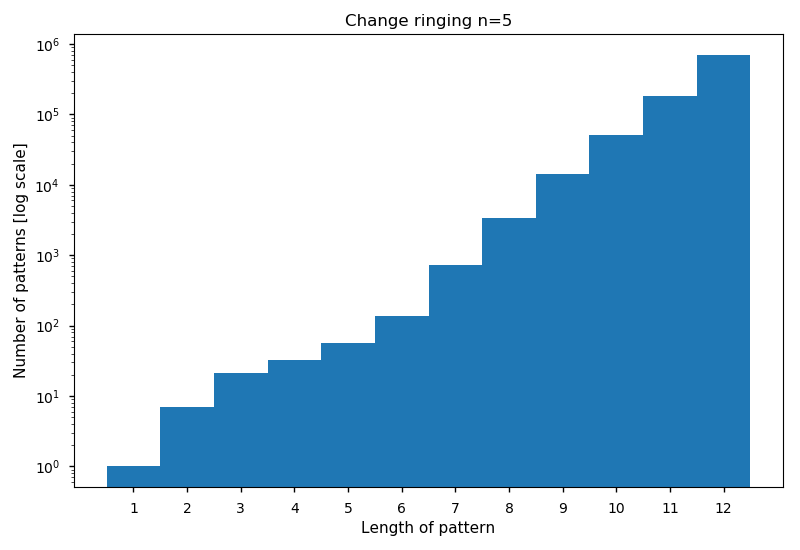
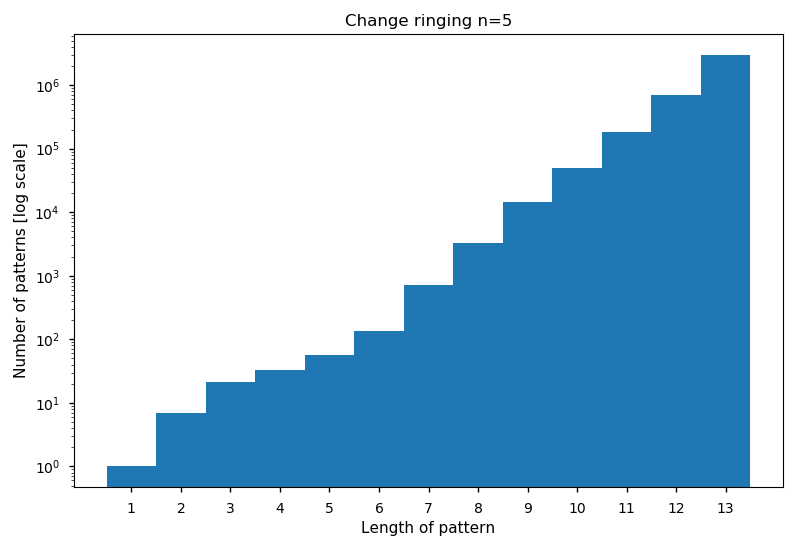
div

diff --git a/change4.html b/change4.html
@@ -22,159 +22,39 @@
 
 <h3>Change ringing patterns for n=4 bells</h3>
 
-<!-- <p> -->
-<!-- &nbsp; -->
-<!-- &nbsp; -->
-<!-- &nbsp; -->
-<!-- &nbsp; -->
-<!-- &nbsp; -->
-<!-- &nbsp; -->
-<!-- &nbsp; -->
-<!-- &nbsp; -->
-<!-- &nbsp;(nr of patterns) -->
-<!-- </p> -->
-
-
-<!-- <p> -->
-<!-- <a href="change4_1.html">Length 1</a> &nbsp; (1)</br> -->
-<!-- <a href="change4_2.html">Length 2</a> &nbsp; (4)</br> -->
-<!-- <a href="change4_3.html">Length 3</a> &nbsp; (6)</br> -->
-<!-- <a href="change4_4.html">Length 4</a> &nbsp; (5)</br> -->
-<!-- <a href="change4_5.html">Length 5</a> &nbsp; (0)</br> -->
-<!-- <a href="change4_6.html">Length 6</a> &nbsp; (0)</br> -->
-<!-- <a href="change4_7.html">Length 7</a> &nbsp; (5)</br> -->
-<!-- <a href="change4_8.html">Length 8</a> &nbsp; (32)</br> -->
-<!-- <a href="change4_9.html">Length 9</a> &nbsp; (93)</br> -->
-<!-- <a href="change4_10.html">Length 10</a>      (167)</br> -->
-<!-- <a href="change4_11.html">Length 11</a>      (257)</br> -->
-<!-- <a href="change4_12.html">Length 12</a>      (377)</br> -->
-<!-- <a href="change4_13.html">Length 13</a>      (589)</br> -->
-<!-- <a href="change4_14.html">Length 14</a>      (1031)</br> -->
-<!-- <a href="change4_15.html">Length 15</a>      (1705)</br> -->
-<!-- <a href="change4_16.html">Length 16</a>      (2429)</br> -->
-<!-- <a href="change4_17.html">Length 17</a>      (3089)</br> -->
-<!-- <a href="change4_18.html">Length 18</a>      (3827)</br> -->
-<!-- <a href="change4_19.html">Length 19</a>      (4474)</br> -->
-<!-- <a href="change4_20.html">Length 20</a>      (4299)</br> -->
-<!-- <a href="change4_21.html">Length 21</a>      (3076)</br> -->
-<!-- <a href="change4_22.html">Length 22</a>      (1535)</br> -->
-<!-- <a href="change4_23.html">Length 23</a>      </br> -->
-<!-- <a href="change4full.html">Length 24 (Full)</a> </br> -->
-<!-- Length 23 (?)</br> -->
-<!-- Length 24 (10792) -->
-<! -- </p> -->
-
-
 <table style="width:200px">
-<tr>
-    <td><em>Length of pattern</em></td>
-    <td><em>Nr of patterns</em></td>
-</tr>
-<tr>
-    <td>&nbsp;</td>
-    <td>&nbsp;</td>
-</tr>
-
-<tr>
-    <td><a href="change4_1.html">1</a></td>
-    <td>1</td>
-</tr>
-<tr>
-    <td><a href="change4_2.html">2</a></td>
-    <td>4</td>
-</tr>
-<tr>
-    <td><a href="change4_3.html">3</a></td>
-    <td>6</td>
-</tr>
-<tr>
-    <td><a href="change4_4.html">4</a></td>
-    <td>5</td>
-</tr>
-<tr>
-    <td><a href="change4_5.html">5</a></td>
-    <td>0</td>
-</tr>
-<tr>
-    <td><a href="change4_6.html">6</a></td>
-    <td>0</td>
-</tr>
-<tr>
-    <td><a href="change4_7.html">7</a></td>
-    <td>5</td>
-</tr>
-<tr>
-    <td><a href="change4_8.html">8</a></td>
-    <td>32</td>
-</tr>
-<tr>
-    <td><a href="change4_9.html">9</a></td>
-    <td>93</td>
-</tr>
-<tr>
-    <td><a href="change4_10.html">10</a></td>
-    <td>167</td>
-</tr>
-<tr>
-    <td><a href="change4_11.html">11</a></td>
-    <td>257</td>
-</tr>
-<tr>
-    <td><a href="change4_12.html">12</a></td>
-    <td>377</td>
-</tr>
-<tr>
-    <td><a href="change4_13.html">13</a></td>
-    <td>589</td>
-</tr>
-<tr>
-    <td><a href="change4_14.html">14</a></td>
-    <td>1031</td>
-</tr>
-<tr>
-    <td><a href="change4_15.html">15</a></td>
-    <td>1705</td>
-</tr>
-<tr>
-    <td><a href="change4_16.html">16</a></td>
-    <td>2429</td>
-</tr>
-<tr>
-    <td><a href="change4_17.html">17</a></td>
-    <td>3089</td>
-</tr>
-<tr>
-    <td><a href="change4_18.html">18</a></td>
-    <td>3827</td>
-</tr>
-<tr>
-    <td><a href="change4_19.html">19</a></td>
-    <td>4474</td>
-</tr>
-<tr>
-    <td><a href="change4_20.html">20</a></td>
-    <td>4299</td>
-</tr>
-<tr>
-    <td><a href="change4_21.html">21</a></td>
-    <td>3076</td>
-</tr>
-<tr>
-    <td><a href="change4_22.html">22</a></td>
-    <td>1535</td>
-</tr>
-<tr>
-    <td><a href="change4_23.html">23</a></td>
-    <td>498</td>
-</tr>
-<tr>
-    <td>24</td>
-    <td>10792</td>
-    <!-- <a href="change4full.html">Length 24 (Full)</a> </br> -->
-</tr>
+<tr><td><em>Length of pattern</em></td><td><em>Nr of patterns</em></td></tr>
+<tr><td>&nbsp;                          </td><td>&nbsp;</td></tr>
+<tr><td><a href="change4_1.html" >1 </a></td><td>1     </td></tr>
+<tr><td><a href="change4_2.html" >2 </a></td><td>4     </td></tr>
+<tr><td><a href="change4_3.html" >3 </a></td><td>6     </td></tr>
+<tr><td><a href="change4_4.html" >4 </a></td><td>5     </td></tr>
+<tr><td><a href="change4_5.html" >5 </a></td><td>0     </td></tr>
+<tr><td><a href="change4_6.html" >6 </a></td><td>0     </td></tr>
+<tr><td><a href="change4_7.html" >7 </a></td><td>5     </td></tr>
+<tr><td><a href="change4_8.html" >8 </a></td><td>32    </td></tr>
+<tr><td><a href="change4_9.html" >9 </a></td><td>93    </td></tr>
+<tr><td><a href="change4_10.html">10</a></td><td>167   </td></tr>
+<tr><td><a href="change4_11.html">11</a></td><td>257   </td></tr>
+<tr><td><a href="change4_12.html">12</a></td><td>377   </td></tr>
+<tr><td><a href="change4_13.html">13</a></td><td>589   </td></tr>
+<tr><td><a href="change4_14.html">14</a></td><td>1031  </td></tr>
+<tr><td><a href="change4_15.html">15</a></td><td>1705  </td></tr>
+<tr><td><a href="change4_16.html">16</a></td><td>2429  </td></tr>
+<tr><td><a href="change4_17.html">17</a></td><td>3089  </td></tr>
+<tr><td><a href="change4_18.html">18</a></td><td>3827  </td></tr>
+<tr><td><a href="change4_19.html">19</a></td><td>4474  </td></tr>
+<tr><td><a href="change4_20.html">20</a></td><td>4299  </td></tr>
+<tr><td><a href="change4_21.html">21</a></td><td>3076  </td></tr>
+<tr><td><a href="change4_22.html">22</a></td><td>1535  </td></tr>
+<tr><td><a href="change4_23.html">23</a></td><td>498   </td></tr>
+<tr><td>                          24    </td><td>10792 </td></tr>
+<!-- <a href="change4full.html">Length 24 (Full)</a> </br> -->
+<tr><td>&nbsp;                          </td><td>&nbsp;</td></tr>
+<tr><td>                  <b>Sum</b> </td><td><b>38291</b></td></tr>
 </table>
- }}}
 
+&nbsp;
 
 <center>
 <img src="images/plot_change4.png" class="ImageBorder" alt="animated" width="600" /></br>
@@ -186,6 +66,7 @@
 <a href="change1.html">n=1</a> &nbsp;
 <a href="change2.html">n=2</a> &nbsp;
 <a href="change3.html">n=3</a> &nbsp;
+n=4 &nbsp;
 <a href="change5.html">n=5</a> &nbsp;
 </footer>
 

diff --git a/change5.html b/change5.html
@@ -45,96 +45,30 @@ patterns of other lengths, neither smaller nor larger than L.
 -->
 
 <table style="width:200px">
-<tr>
-    <td><em>Length of pattern</em></td>
-    <td><em>Nr of patterns</em></td>
-</tr>
-
-
-<tr>
-    <td>&nbsp;</td>
-    <td>&nbsp;</td>
-</tr>
-
-<tr>
-    <td><a href="change5_1.html">1</a></td>
-    <td>1</td>
-</tr>
-<tr>
-    <td><a href="change5_2.html">2</a></td>
-    <td>7</td>
-</tr>
-<tr>
-    <td><a href="change5_3.html">3</a></td>
-    <td>21</td>
-</tr>
-<tr>
-    <td><a href="change5_4.html">4</a></td>
-    <td>33</td>
-</tr>
-<tr>
-    <td><a href="change5_5.html">5</a></td>
-    <td>56</td>
-</tr>
-<tr>
-    <td><a href="change5_6.html">6</a></td>
-    <td>137</td>
-</tr>
-<tr>
-    <td><a href="change5_7.html">7</a></td>
-    <td>722</td>
-</tr>
-<tr>
-    <td><a href="change5_8.html">8</a></td>
-    <td>3334</td>
-</tr>
-<tr>
-    <td><a href="change5_9.html">9</a></td>
-    <td>14471</td>
-</tr>
-<tr>
-    <!--    <td><a href="change5_10.html">10</a></td> -->
-    <td>10</td>
-    <td>50265</td>
-</tr>
-<tr>
-    <!--    <td><a href="change5_11.html">11</a></td> -->
-    <td>11</td>
-    <td>182110</td>
-</tr>
-<tr>
-    <!--    <td><a href="change5_12.html">12</a></td> -->
-    <td>12</td>
-    <td>703687</td>
-</tr>
-<tr>
-    <td>13</td>
-    <td>?</td>
-</tr>
-    <!--    <td><a href="change5_12.html">12</a></td> -->
-    <td>14</td>
-    <td>?</td>
-</tr>
-<tr>
-    <td>15</td>
-    <td>?</td>
-</tr>
-<tr>
-    <td>.</td>
-</tr>
-<tr>
-    <td>.</td>
-</tr>
-<tr>
-    <td>.</td>
-</tr>
-<tr>
-    <td>120</td>
-    <td>?</td>
-</tr>
+<tr><td><em>Length of pattern</em></td><td><em>Nr of patterns</em></td></tr>
+<tr><td>                          &nbsp;</td><td>&nbsp; </td></tr>
+<tr><td><a href="change5_1.html">1  </a></td><td>1      </td></tr>
+<tr><td><a href="change5_2.html">2  </a></td><td>7      </td></tr>
+<tr><td><a href="change5_3.html">3  </a></td><td>21     </td></tr>
+<tr><td><a href="change5_4.html">4  </a></td><td>33     </td></tr>
+<tr><td><a href="change5_5.html">5  </a></td><td>56     </td></tr>
+<tr><td><a href="change5_6.html">6  </a></td><td>137    </td></tr>
+<tr><td><a href="change5_7.html">7  </a></td><td>722    </td></tr>
+<tr><td><a href="change5_8.html">8  </a></td><td>3334   </td></tr>
+<tr><td><a href="change5_9.html">9  </a></td><td>14471  </td></tr>
+<tr><td>                         10     </td><td>50265  </td></tr>
+<tr><td>                         11     </td><td>182110 </td></tr>
+<tr><td>                         12     </td><td>703687 </td></tr>
+<tr><td>                         13     </td><td>3000175</td></tr>
+<tr><td>                         14     </td><td>?</td></tr>
+<tr><td>                         15     </td><td>?</td></tr>
+<tr><td>                         .      </td><td>.</td></tr>
+<tr><td>                         .      </td><td>.</td></tr>
+<tr><td>                         .      </td><td>.</td></tr>
+<tr><td>                         120    </td><td>?</td></tr>
 </table>
- }}}
 
+&nbsp;
 
 <center>
 <img src="images/plot_change5.png" class="ImageBorder" alt="animated" width="600" /></br>
@@ -147,6 +81,7 @@ patterns of other lengths, neither smaller nor larger than L.
 <a href="change2.html">n=2</a> &nbsp;
 <a href="change3.html">n=3</a> &nbsp;
 <a href="change4.html">n=4</a> &nbsp;
+n=5 &nbsp;
 </footer>
 
 </body>

diff --git a/change3.html b/change3.html
@@ -23,28 +23,27 @@
 <table>
   <tr>
     <td><em>Length of pattern</em></td>
-    <td>&nbsp</td>
-    <td>&nbsp</td>
-    <td>1</td>
-    <td>2</td>
-    <td>3</td>
-    <td>4</td>
-    <td>5</td>
-    <td>6</td>
+    <td>&nbsp;</td>
+    <td>&nbsp;</td>
+    <td>&nbsp; 1</td>
+    <td>&nbsp; 2</td>
+    <td>&nbsp; 3</td>
+    <td>&nbsp; 4</td>
+    <td>&nbsp; 5</td>
+    <td>&nbsp; 6</td>
   </tr>
   <tr>
     <td><em>Number of patterns</em></td>
     <td>&nbsp;</td>
     <td>&nbsp;</td>
-    <td>1</td>
-    <td>0</td>
-    <td>2</td>
-    <td>0</td>
-    <td>0</td>
-    <td>2</td>
+    <td>&nbsp; 1</td>
+    <td>&nbsp; 0</td>
+    <td>&nbsp; 2</td>
+    <td>&nbsp; 0</td>
+    <td>&nbsp; 0</td>
+    <td>&nbsp; 2</td>
   </tr>
 </table>
-
 
 <div id="viewfile">
     <p>
@@ -58,6 +57,7 @@
 <a href="change_about.html">About change ringing patterns</a> &nbsp;
 <a href="change1.html">n=1</a> &nbsp;
 <a href="change2.html">n=2</a> &nbsp;
+n=3 &nbsp;
 <a href="change4.html">n=4</a> &nbsp;
 <a href="change5.html">n=5</a> &nbsp;
 </footer>

diff --git a/change2.html b/change2.html
@@ -31,6 +31,7 @@
 <footer>
 <a href="change_about.html">About change ringing patterns</a> &nbsp;
 <a href="change1.html">n=1</a> &nbsp;
+n=2 &nbsp;
 <a href="change3.html">n=3</a> &nbsp;
 <a href="change4.html">n=4</a> &nbsp;
 <a href="change5.html">n=5</a> &nbsp;

diff --git a/change1.html b/change1.html
@@ -30,6 +30,7 @@
 <hr noshade="">
 <footer>
 <a href="change_about.html">About change ringing patterns</a> &nbsp;
+n=1 &nbsp;
 <a href="change2.html">n=2</a> &nbsp;
 <a href="change3.html">n=3</a> &nbsp;
 <a href="change4.html">n=4</a> &nbsp;
